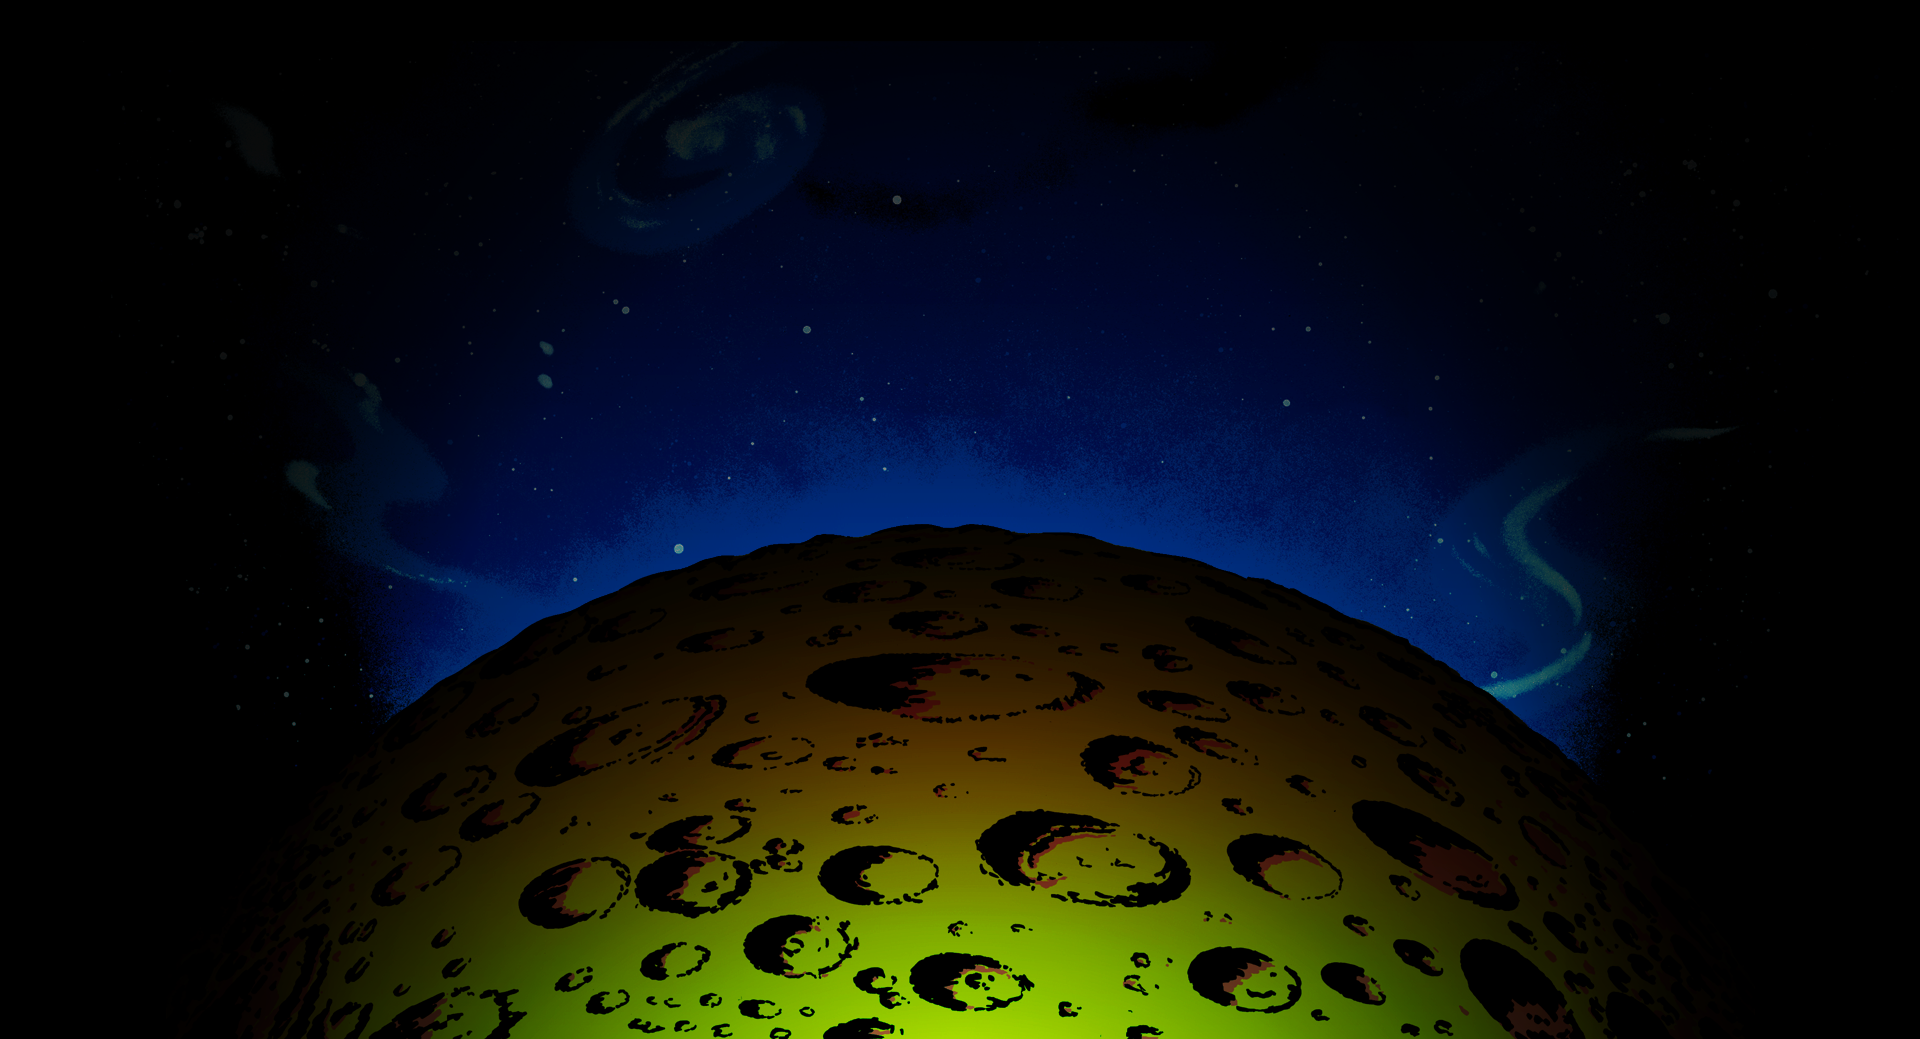
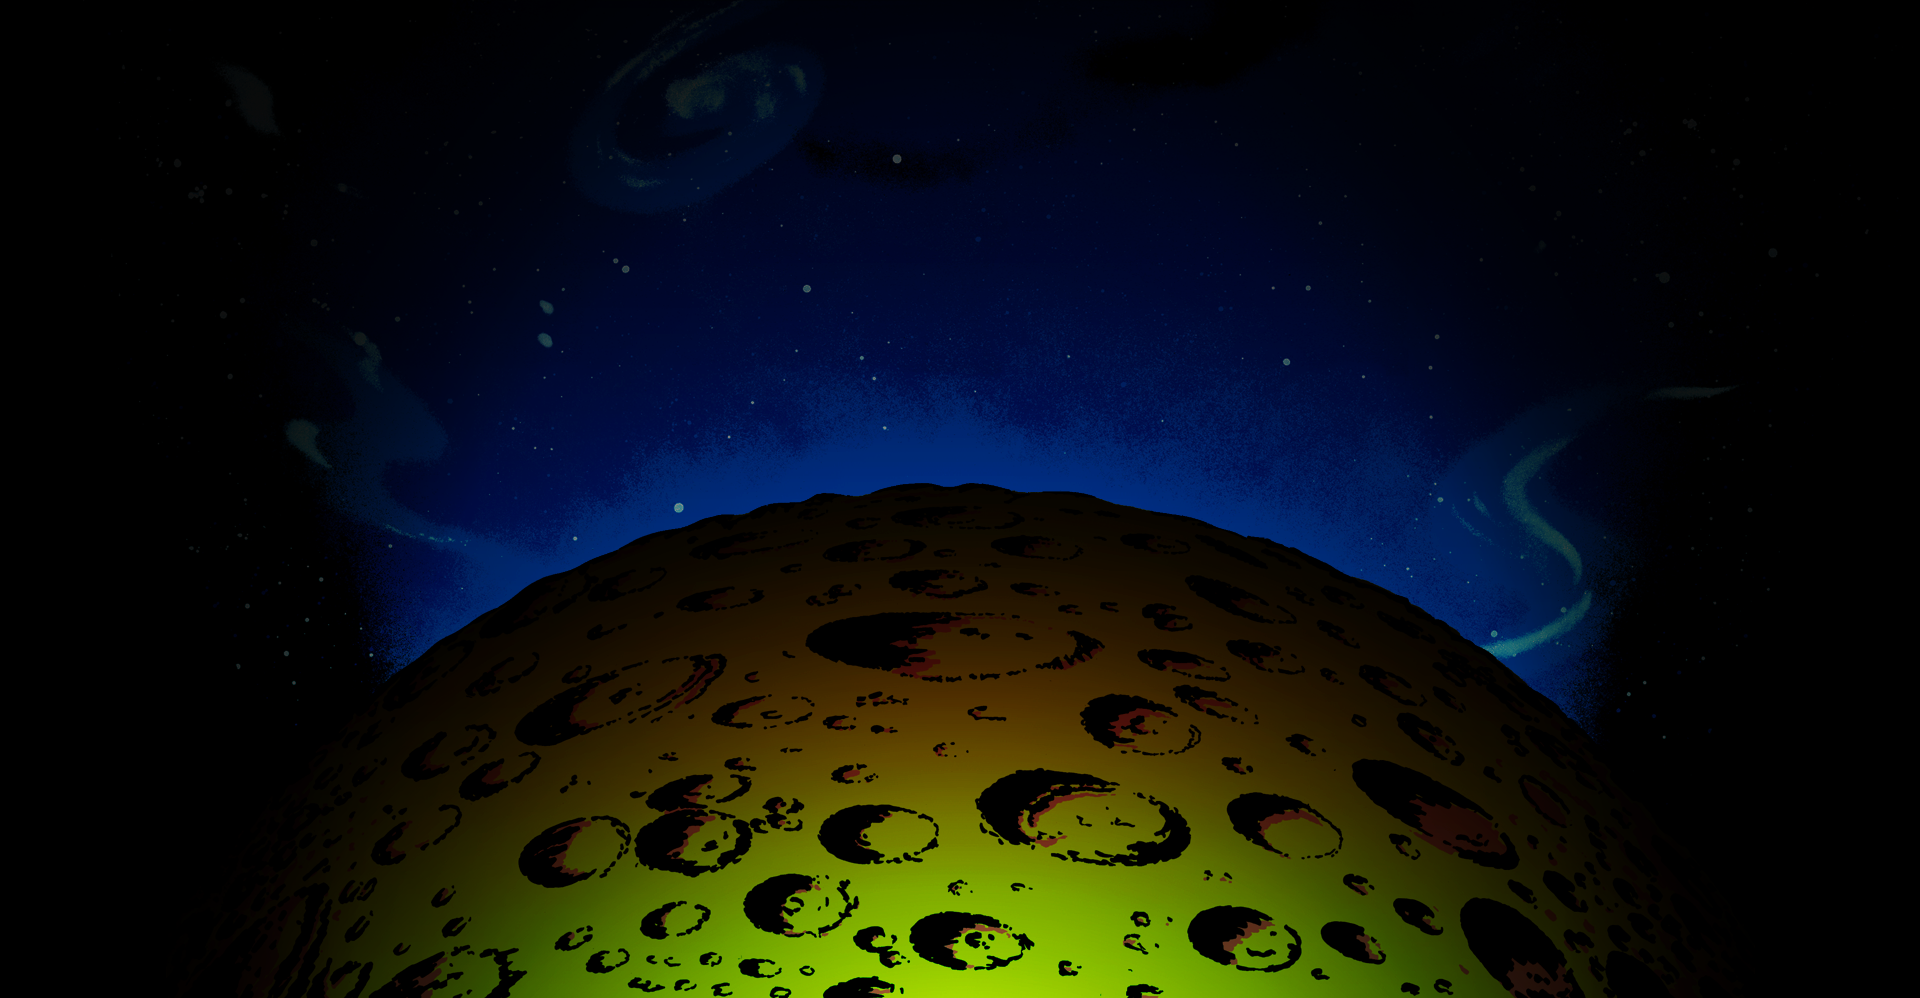
fix(game): spawn bolts above turret tip
Also rebrand to Invaders'78 and darken overlay/backdrop dims
for readability.

diff --git a/src/app/Hud.tsx b/src/app/Hud.tsx
@@ -115,7 +115,7 @@ export function Overlay({
         <div className="overlay-panel">
           <div className="attract-logo">
             <p className="play-line">Play</p>
-            <h1 className="brand">Invaders 78</h1>
+            <h1 className="brand">Invaders'78</h1>
           </div>
           <ScoreTable />
           <ModeSelector menuPlayerCount={state.menuPlayerCount} />
@@ -162,17 +162,19 @@ export function Overlay({
   }
   if (state.phase === 'gameOver') {
     return (
-      <div className="overlay overlay-dim">
+      <div className="overlay overlay-dim overlay-game-over">
         <div className="overlay-panel">
           <h2>Game Over</h2>
-          {state.playerCount === 2 ? (
-            <>
-              <p className="tagline">P1 {pad(state.scores[0])}</p>
-              <p className="tagline">P2 {pad(state.scores[1])}</p>
-            </>
-          ) : (
-            <p className="tagline">Score {pad(state.scores[0])}</p>
-          )}
+          <div className="game-over-scores">
+            {state.playerCount === 2 ? (
+              <>
+                <p className="tagline">P1 {pad(state.scores[0])}</p>
+                <p className="tagline">P2 {pad(state.scores[1])}</p>
+              </>
+            ) : (
+              <p className="tagline">Score {pad(state.scores[0])}</p>
+            )}
+          </div>
           <ModeSelector menuPlayerCount={state.menuPlayerCount} />
         </div>
       </div>
@@ -201,7 +203,7 @@ function ScoreTable() {
   const cellRem = 0.15;
   return (
     <div className="score-table">
-      <p className="score-table-title">*Score Advance Table*</p>
+      <p className="score-table-title">* Score Advance Table *</p>
       <ul>
         <li>
           <span className="st-icon-slot">

diff --git a/src/app/app.css b/src/app/app.css
@@ -17,9 +17,9 @@
     rgba(0, 0, 0, 0.55) 40%,
     rgba(0, 0, 0, 0.7) 100%
   );
-  --overlay-dim: rgba(0, 0, 0, 0.5);
+  --overlay-dim: rgba(0, 0, 0, 0.75);
   /* Soften backdrop so playfield entities stay readable */
-  --backdrop-dim: rgba(0, 0, 0, 0.45);
+  --backdrop-dim: rgba(0, 0, 0, 0.65);
 
   --z-chrome: 2;
   --z-overlay: 3;
@@ -231,8 +231,16 @@ body,
   transition-timing-function: ease;
 }
 
-.overlay-attract .overlay-panel {
+.overlay-attract .overlay-panel,
+.overlay-game-over .overlay-panel {
   gap: 3.5rem;
+}
+
+.game-over-scores {
+  display: flex;
+  flex-direction: column;
+  align-items: center;
+  gap: 0.75rem;
 }
 
 .overlay-attract.attract-visible {
@@ -270,7 +278,7 @@ body,
 
 .mode-select-hint {
   margin: 0;
-  font-size: 0.6rem;
+  font-size: 0.75rem;
   letter-spacing: 0.08em;
   color: var(--color-muted);
 }
@@ -322,7 +330,7 @@ body,
   font-size: 0.65rem;
   letter-spacing: 0.06em;
   text-transform: uppercase;
-  color: var(--color-muted);
+  color: var(--color-white);
   background: transparent;
   border: none;
   padding: 0.35rem 0.5rem;

diff --git a/src/game/constants.ts b/src/game/constants.ts
@@ -32,10 +32,11 @@ export const PLAYER = {
   halfWidth: (13 * VOXEL_SIZE) / 2,
   halfDepth: (8 * VOXEL_SIZE) / 2,
   /**
-   * Top-row voxel centre of PLAYER_RECIPE (8-row grid) — cannon tip.
+   * Top-row voxel centre of PLAYER_RECIPE (8-row grid) — cannon tip,
+   * plus 3 voxel heights so the bolt clears the turret.
    * Matches recipeToBits: `((rows - 1) * cell) / 2`.
    */
-  bulletSpawnOffsetZ: ((8 - 1) * VOXEL_SIZE) / 2,
+  bulletSpawnOffsetZ: ((8 - 1) * VOXEL_SIZE) / 2 + 3 * VOXEL_SIZE,
   bulletSpeed: 22,
   startLives: 3,
   dyingDuration: 0.85,

diff --git a/rsbuild.config.ts b/rsbuild.config.ts
@@ -5,6 +5,6 @@ import { pluginReact } from '@rsbuild/plugin-react';
 export default defineConfig({
   plugins: [pluginReact()],
   html: {
-    title: 'Invaders 78',
+    title: 'Invaders \'78',
   },
 });
